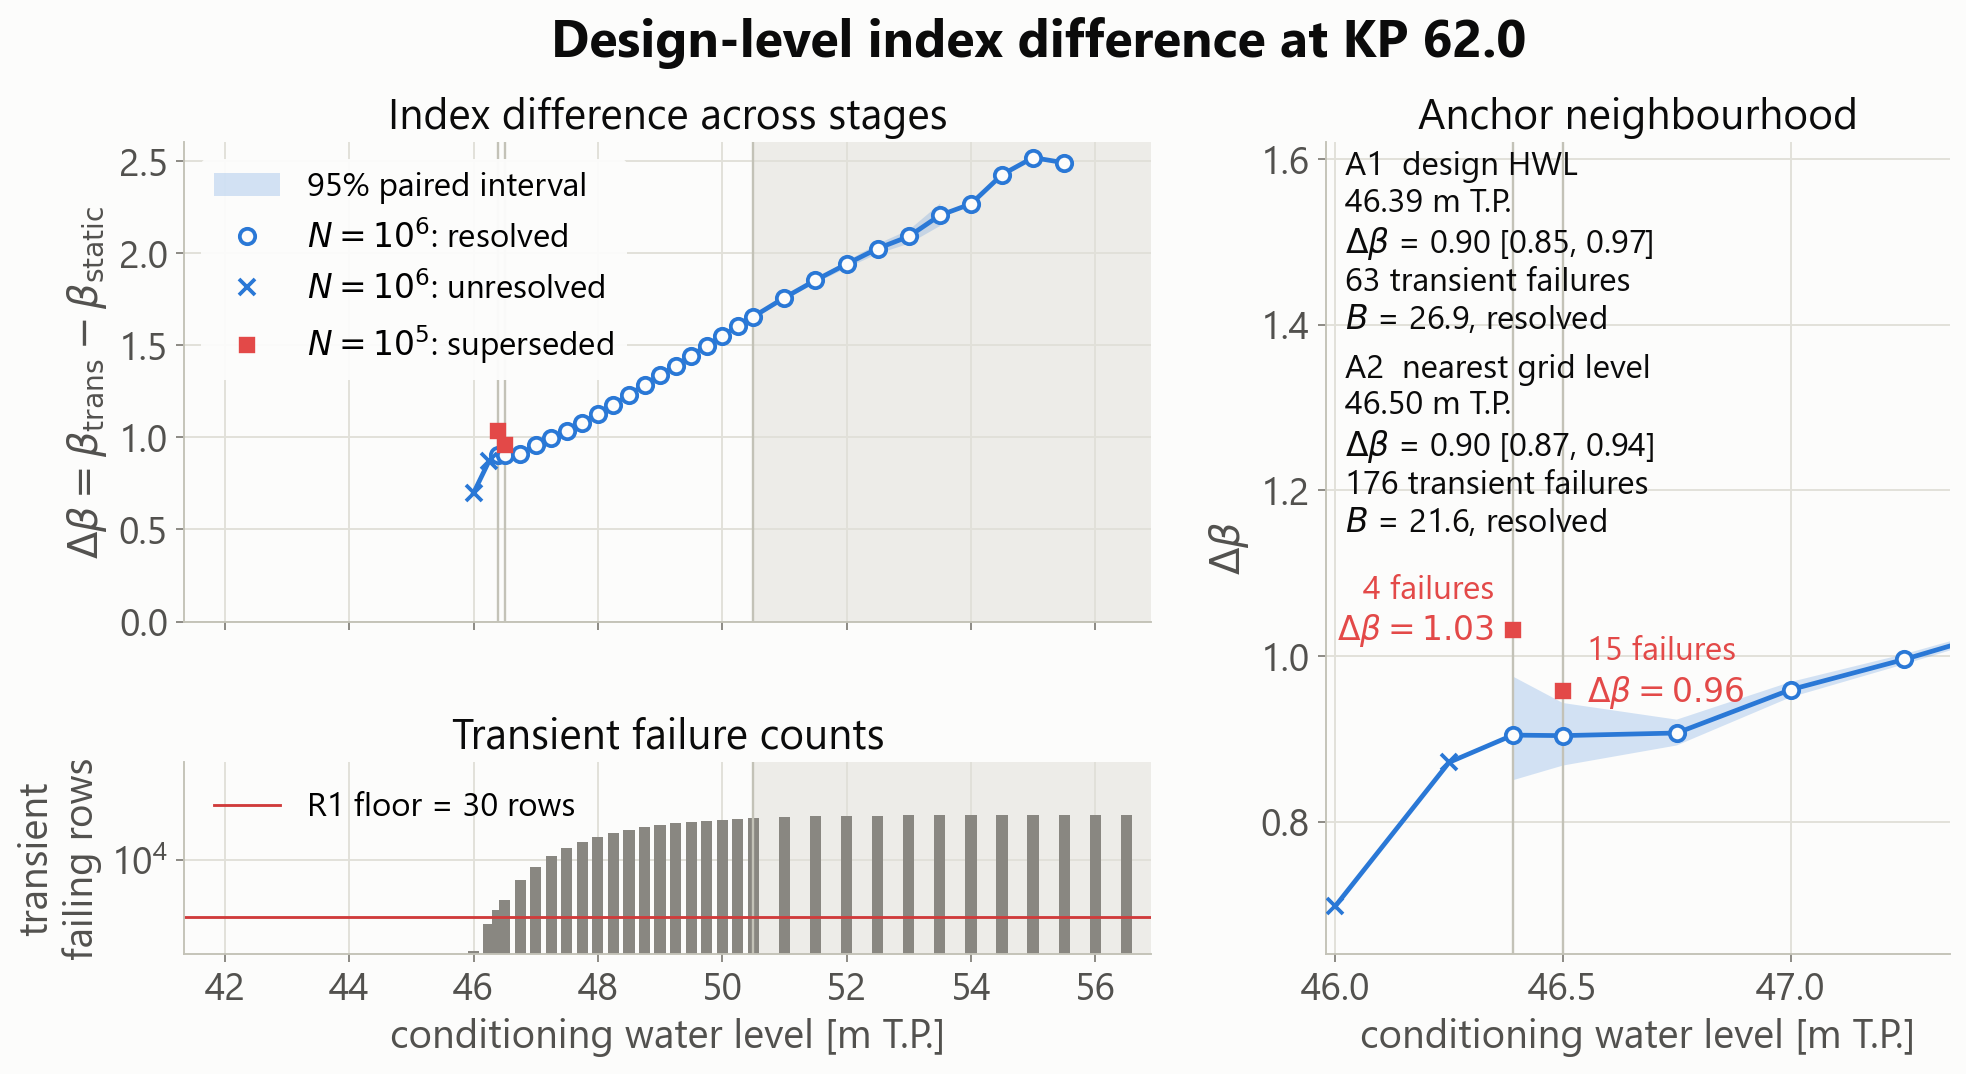
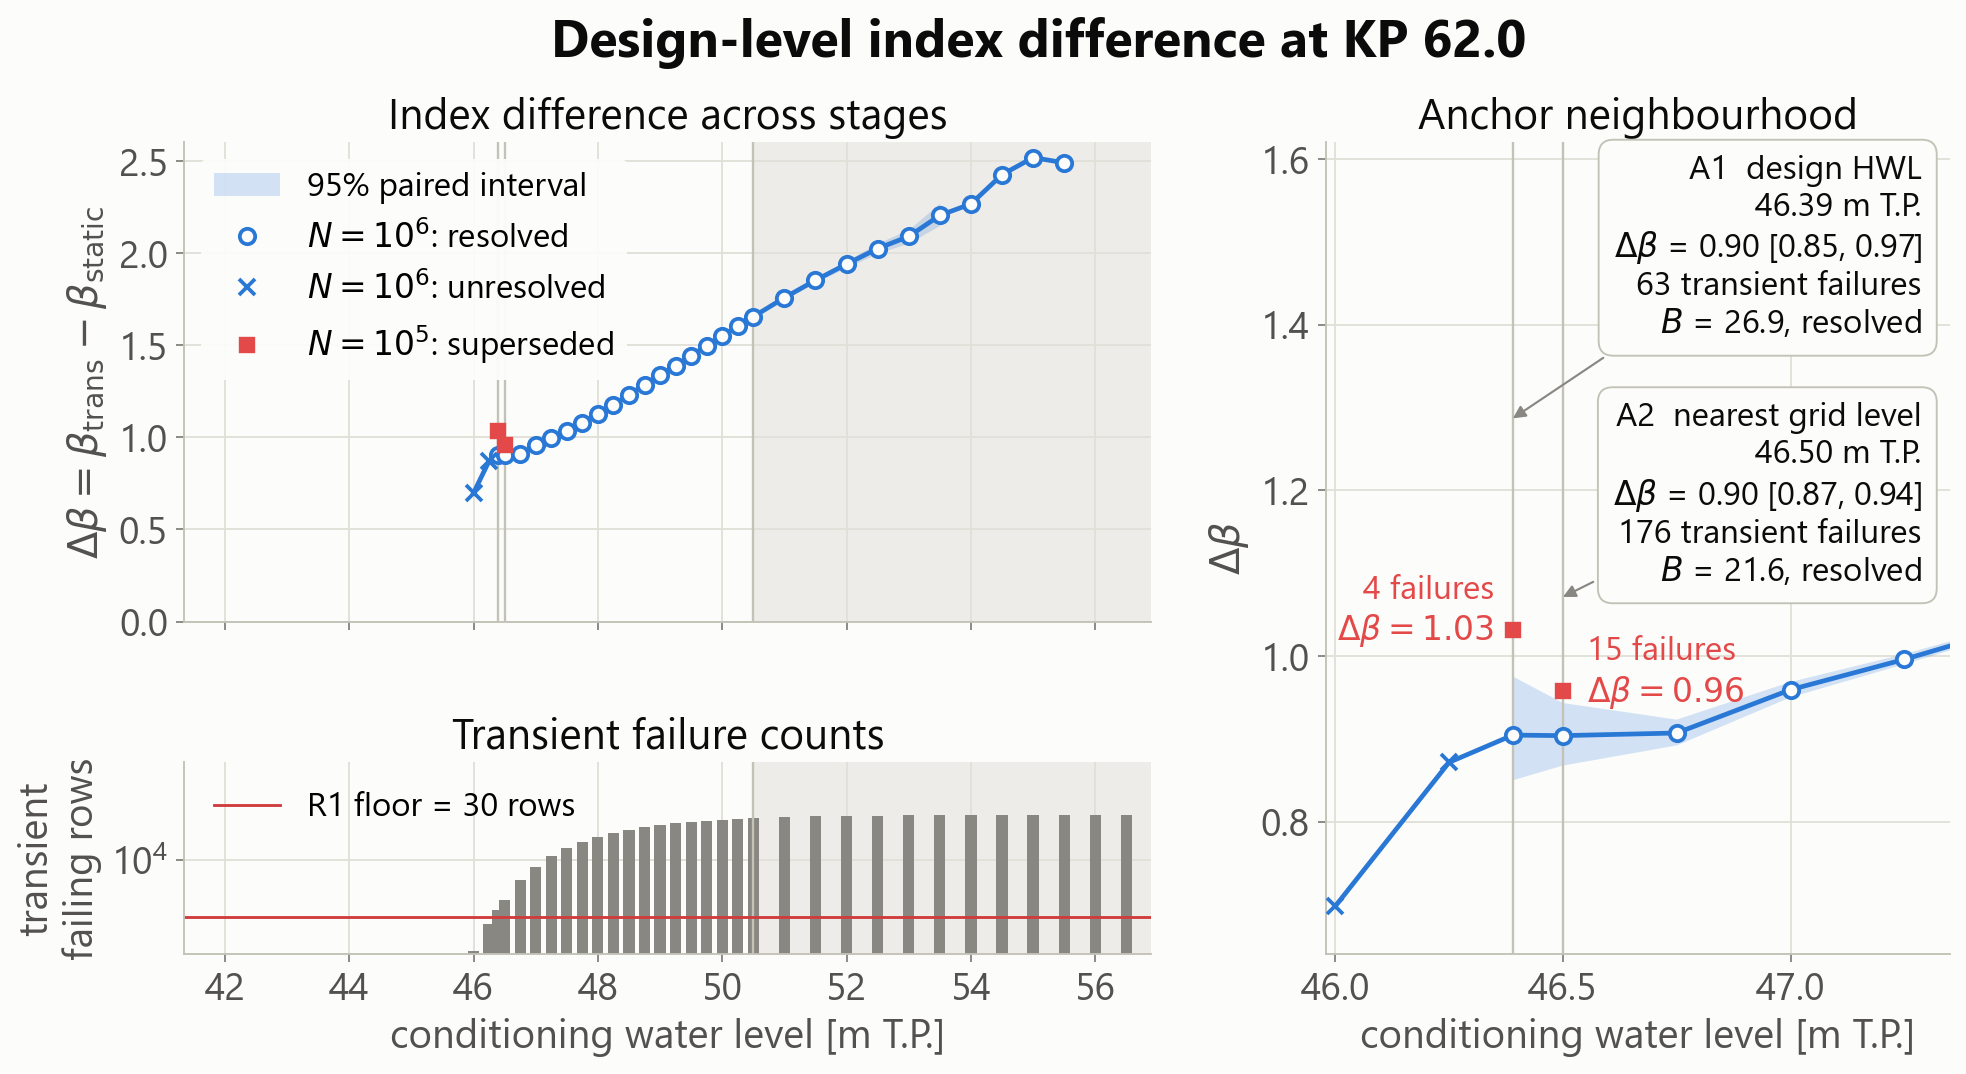
Box the two anchor callouts and lead them to the levels they name
The design high water level and nearest grid level callouts sat as loose
text in the top left of the anchor panel. They are now boxes in the top
right, each joined by a leader to the vertical line it describes.

The leader is placed by construction rather than by adjustment: its tip
takes its horizontal position from the anchor level in data coordinates,
which is the same value the line itself is drawn at, and its vertical
position from a fraction of the panel height, chosen so the two leaders
do not cross. The arrow terminates exactly at that point instead of
being shrunk back from it, which is what makes it meet the line whatever
the axis limits later become. The first attempt kept the default shrink
and stopped visibly short of both lines.

Moving the callouts out of the top left also clears the corner the two
superseded-estimate labels occupy, so the left of that panel is now the
red pair alone and the right is the black pair alone.

Changed region(s): [[0.6826, 0.1229, 0.9929, 0.5531]]

diff --git a/scripts/rq1_beta_analysis.py b/scripts/rq1_beta_analysis.py
@@ -1932,9 +1932,21 @@ def figure_hwl_dbeta_resolved(record: dict[str, Any]) -> Path:
     # is the one the reported interval comes from; taking the sweep's own draw
     # here printed a second interval for a number the report quotes once.
     anchor = record["design_anchors"]["kp62_0"]
-    for level, note, dy in (
-        (46.39, "A1  design HWL", 0.99),
-        (46.50, "A2  nearest grid level", 0.74),
+    # Each callout is a box in the top right, with a leader to the vertical
+    # line it describes. The leader's tip takes its x from the anchor level in
+    # data coordinates, so it lands on that line whatever the axis limits do,
+    # and its y from a fraction of the panel height, set so the two leaders do
+    # not cross. The upper right of this panel is clear: the curve and both
+    # superseded estimates sit in its lower third.
+    callout_box = {
+        "facecolor": figstyle.SURFACE,
+        "edgecolor": figstyle.BASELINE,
+        "boxstyle": "round,pad=0.45",
+        "linewidth": 0.8,
+    }
+    for level, note, dy, y_tip in (
+        (46.39, "A1  design HWL", 0.985, 0.66),
+        (46.50, "A2  nearest grid level", 0.68, 0.44),
     ):
         row = _find(usable, level)
         quoted = anchor if abs(anchor["level_m_msl"] - level) < 1e-9 else row
@@ -1945,12 +1957,27 @@ def figure_hwl_dbeta_resolved(record: dict[str, Any]) -> Path:
             rf"$\Delta\beta$ = {row['delta_beta']:.2f} {_ci(quoted['delta_beta_ci'])}"
             f"\n{row['k_transient']} transient failures\n"
             f"$B$ = {row['B']:.1f}, resolved",
-            (0.03, dy),
-            xycoords="axes fraction",
+            xy=(row["level_m_msl"], y_tip),
+            xycoords=("data", "axes fraction"),
+            xytext=(0.955, dy),
+            textcoords="axes fraction",
             fontsize=figstyle.pt("small", scale),
             color=figstyle.INK,
-            ha="left",
+            ha="right",
             va="top",
+            bbox=callout_box,
+            arrowprops={
+                "arrowstyle": "-|>",
+                "color": figstyle.MUTED,
+                "lw": 0.9,
+                # No shrink at the tip: the arrow is meant to touch the line
+                # it names, and its x is that line's own coordinate, so
+                # terminating exactly at the target puts it there by
+                # construction rather than by adjustment.
+                "shrinkB": 0.0,
+                "mutation_scale": 11,
+            },
+            zorder=7,
         )
 
     ax.set_ylabel(r"$\Delta\beta = \beta_\mathrm{trans} - \beta_\mathrm{static}$")

diff --git a/docs/project_log.md b/docs/project_log.md
@@ -370,3 +370,24 @@ mechanics are in `docs/conventions.md`.
   them; separating them by column against their own markers showed both sitting
   6.5 px high at the first attempt, which is 3.2 pt at this figure's resolution,
   and the offset was corrected by exactly that.
+
+  **The round-4 ruling, 2026-09-11.** 5.8 and 8.1 approved and copied into the
+  thesis, taking the campaign to 62 of 63. 6.5 came back for a third look: the
+  two anchor callouts are boxed, moved to the top right of the right-hand panel,
+  and each joined by a leader to the conditioning level it names. **The leader's
+  tip is placed by construction, not by adjustment**, which is the transferable
+  part: its x is the anchor level in data coordinates, the same value the
+  vertical line is drawn at, its y is a fraction of the panel height chosen so
+  the two leaders do not cross, and the arrow terminates exactly at that point
+  rather than being shrunk back from it. A tip positioned that way lands on its
+  line whatever the axis limits later become, and needs no measurement to
+  confirm; the first attempt used the default shrink and stopped visibly short
+  of both lines.
+
+  **A caution on measuring a figure by colour.** The check written to confirm
+  the leader tips searched for the muted grey the leaders are drawn in, and that
+  grey is also the tick labels, the axis text and the spines, so it reported
+  every leader as stopping short by margins that were pure noise. Where a
+  construction can be made exact, prefer it to a measurement of the render;
+  where a measurement is genuinely needed, as with 6.5's label alignment in the
+  preceding round, key it on something the rest of the figure does not share.

diff --git a/docs/conventions.md b/docs/conventions.md
@@ -400,6 +400,16 @@ right panel, and the two groups move further apart. 6.5's two superseded-estimat
 labels are lowered again so that each label's bottom line sits level with the
 marker it belongs to, measured on the render rather than judged by eye.
 
+**The round-4 ruling, 2026-09-11: 62 of 63 approved.** 5.8 and 8.1 are approved
+and in the report. 6.5 came back once more: its two anchor callouts are now boxed,
+moved from the top left to the top right of the right-hand panel, and each is
+joined to the conditioning level it describes by a leader. The leader takes its x
+from that level in data coordinates and its y from a fraction of the panel height,
+so it lands on its own line whatever the axis limits do and the two leaders do not
+cross; the arrow terminates exactly at the target rather than being shrunk back
+from it, which is what makes it touch the line by construction rather than by
+adjustment.
+
 Standing exceptions: 6.5 keeps its small upper-left legend, 6.12 uses separate
 legends beneath its two panels, 5.7 retains its compact printed-point table with
 a 7 pt floor, and H.3/H.4 keep the shared legend below because their top-right
